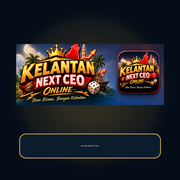
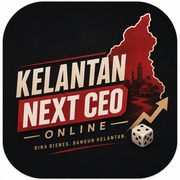
Add files via upload

diff --git a/index.html b/index.html
@@ -10,6 +10,7 @@
 <title>Kelantan Next CEO Online</title>
 <link rel="manifest" href="manifest.json">
 <link rel="apple-touch-icon" href="apple-touch-icon.png">
+<link rel="icon" type="image/png" sizes="192x192" href="icon-192.png">
 <style>
 :root{
  --bg:#07111b;--panel:#0d1924;--panel2:#112334;--line:#223849;--text:#f5f7f9;--muted:#91a2ae;
@@ -28,32 +29,125 @@ body{
 button,input,select{font:inherit}button{cursor:pointer}img{max-width:100%}
 
 #splash{
- position:fixed;inset:0;z-index:5000;background:#03080d;overflow:hidden;
- display:block;color:white
+ position:fixed;inset:0;z-index:5000;overflow:hidden;
+ background:
+   radial-gradient(circle at 50% 46%,rgba(23,109,153,.13),transparent 24%),
+   radial-gradient(circle at 50% 46%,rgba(227,52,45,.12),transparent 32%),
+   linear-gradient(180deg,#03070b 0%,#07101a 55%,#020507 100%);
+ color:white;display:flex;align-items:center;justify-content:center;
 }
-.splashStage{position:absolute;inset:0;opacity:0;transition:opacity .7s ease,transform 2.4s cubic-bezier(.2,.8,.2,1);transform:scale(1.035)}
-.splashStage.active{opacity:1;transform:scale(1)}
-.splashStage img{position:absolute;inset:0;width:100%;height:100%;object-fit:cover;object-position:center;display:block}
-.splashShade{position:absolute;inset:0;background:linear-gradient(180deg,rgba(2,7,12,.10),rgba(2,7,12,.02) 48%,rgba(2,7,12,.68));z-index:2;pointer-events:none}
-.splashFx{position:absolute;inset:0;z-index:3;pointer-events:none}
-.splashFx:before{
- content:"";position:absolute;left:50%;top:44%;width:58vw;height:58vw;max-width:520px;max-height:520px;
+.splashScene{position:absolute;inset:0;overflow:hidden}
+.splashGrid{
+ position:absolute;inset:-20%;
+ background:
+  linear-gradient(rgba(89,180,224,.055) 1px,transparent 1px),
+  linear-gradient(90deg,rgba(89,180,224,.055) 1px,transparent 1px);
+ background-size:34px 34px;
+ transform:perspective(700px) rotateX(63deg) translateY(40%);
+ transform-origin:center bottom;
+ opacity:.32;
+ animation:gridMove 5s linear infinite
+}
+@keyframes gridMove{to{background-position:0 34px,34px 0}}
+.splashOrb{
+ position:absolute;left:50%;top:47%;width:min(76vw,560px);aspect-ratio:1;
  transform:translate(-50%,-50%);border-radius:50%;
- background:radial-gradient(circle,rgba(33,183,255,.17),rgba(255,59,48,.07) 38%,transparent 70%);
- filter:blur(7px);animation:splashPulse 1.5s ease-in-out infinite alternate
+ border:1px solid rgba(70,190,255,.16);
+ box-shadow:
+  0 0 60px rgba(58,176,235,.10),
+  inset 0 0 80px rgba(58,176,235,.06);
+ animation:orbPulse 2.5s ease-in-out infinite alternate
 }
-@keyframes splashPulse{to{transform:translate(-50%,-50%) scale(1.12);opacity:.45}}
+.splashOrb:before,.splashOrb:after{
+ content:"";position:absolute;border-radius:50%;inset:11%;
+ border:1px solid rgba(255,75,58,.12)
+}
+.splashOrb:after{inset:25%;border-color:rgba(255,194,77,.12)}
+@keyframes orbPulse{to{transform:translate(-50%,-50%) scale(1.045);opacity:.74}}
+
+.kelantanHero{
+ position:absolute;left:50%;top:49%;
+ width:min(47vw,330px);height:min(67vw,470px);
+ transform:translate(-50%,-50%);
+ animation:heroFloat 4.4s ease-in-out infinite;
+ filter:drop-shadow(0 0 20px rgba(230,54,47,.50)) drop-shadow(0 0 42px rgba(241,178,60,.13))
+}
+.kelantanShape{
+ position:absolute;inset:0;
+ background:
+  radial-gradient(circle at 51% 24%,#ffcf62 0 2px,transparent 3px),
+  radial-gradient(circle at 45% 34%,#ffcf62 0 2px,transparent 3px),
+  radial-gradient(circle at 58% 42%,#ffcf62 0 2px,transparent 3px),
+  radial-gradient(circle at 48% 54%,#ffcf62 0 2px,transparent 3px),
+  radial-gradient(circle at 42% 67%,#ffcf62 0 2px,transparent 3px),
+  linear-gradient(155deg,#ef4a3e 0%,#c32827 46%,#7e1116 100%);
+ clip-path:polygon(
+   40% 0%,58% 5%,70% 13%,79% 24%,87% 37%,85% 49%,
+   79% 61%,72% 71%,67% 82%,59% 94%,50% 100%,42% 94%,
+   34% 86%,28% 78%,22% 67%,16% 56%,12% 43%,14% 31%,
+   20% 19%,28% 9%
+ );
+ border-radius:18px;
+ box-shadow:inset 0 0 0 2px rgba(255,208,100,.45),inset -18px -28px 45px rgba(68,0,9,.42)
+}
+.kelantanShape:before{
+ content:"";position:absolute;inset:0;
+ background:
+  linear-gradient(118deg,transparent 0 46%,rgba(255,222,130,.40) 47%,transparent 48%),
+  linear-gradient(68deg,transparent 0 52%,rgba(255,222,130,.28) 53%,transparent 54%),
+  linear-gradient(160deg,transparent 0 62%,rgba(255,222,130,.22) 63%,transparent 64%);
+ opacity:.42;mix-blend-mode:screen
+}
+.kelantanShape:after{
+ content:"";position:absolute;left:46%;top:18%;width:8%;height:64%;
+ background:linear-gradient(180deg,rgba(53,181,229,.95),rgba(73,132,191,.25));
+ border-radius:999px;transform:rotate(7deg);
+ box-shadow:0 0 12px rgba(66,187,236,.40)
+}
+@keyframes heroFloat{0%,100%{transform:translate(-50%,-50%) translateY(0) rotate(-1deg)}50%{transform:translate(-50%,-50%) translateY(-9px) rotate(1deg)}}
+
+.scanline{
+ position:absolute;left:50%;top:18%;width:min(54vw,390px);height:3px;
+ transform:translateX(-50%);
+ background:linear-gradient(90deg,transparent,rgba(255,220,121,.9),transparent);
+ filter:blur(.3px);opacity:.0;
+ animation:scan 2.8s .7s ease-in-out infinite
+}
+@keyframes scan{
+ 0%{top:20%;opacity:0}12%{opacity:.7}50%{opacity:.45}88%{opacity:.7}100%{top:78%;opacity:0}
+}
+
+.spark{position:absolute;width:3px;height:3px;border-radius:50%;background:#ffcf62;box-shadow:0 0 8px #ffcf62;opacity:.0;animation:spark 3.6s infinite}
+.spark.s1{left:34%;top:34%;animation-delay:.4s}.spark.s2{left:66%;top:40%;animation-delay:1.1s}.spark.s3{left:41%;top:65%;animation-delay:1.8s}.spark.s4{left:59%;top:70%;animation-delay:2.5s}
+@keyframes spark{0%,100%{opacity:0;transform:translateY(7px) scale(.7)}35%,60%{opacity:1;transform:translateY(-7px) scale(1)}}
+
+.splashContent{
+ position:absolute;left:0;right:0;top:calc(54px + env(safe-area-inset-top,0px));
+ z-index:10;text-align:center;padding:0 24px;
+ animation:contentIn 1s .15s ease both
+}
+.splashBrand{display:block;width:min(430px,86vw);margin:auto;filter:drop-shadow(0 10px 20px rgba(0,0,0,.45))}
+@keyframes contentIn{from{opacity:0;transform:translateY(-12px) scale(.96)}to{opacity:1;transform:none}}
+
 .splashBottom{
  position:absolute;left:0;right:0;bottom:calc(28px + env(safe-area-inset-bottom,0px));
- z-index:4;text-align:center;padding:0 22px
+ z-index:12;text-align:center;padding:0 24px
 }
-.splashTag{font-size:12px;font-weight:900;letter-spacing:.35px;color:#f7d779;text-shadow:0 2px 12px #000}
-.splashStatus{margin-top:8px;font-size:9px;letter-spacing:1.7px;color:#c4d0d8;font-weight:900}
-.splashProgress{width:min(330px,78vw);height:7px;margin:13px auto 0;border-radius:999px;background:rgba(255,255,255,.12);overflow:hidden;border:1px solid rgba(255,255,255,.14)}
-.splashProgress span{display:block;height:100%;width:0;background:linear-gradient(90deg,#e4372f,#f0b94a);box-shadow:0 0 12px rgba(240,185,74,.42);transition:width .6s ease}
-.splashDots{display:flex;justify-content:center;gap:6px;margin-top:12px}
-.splashDots i{display:block;width:6px;height:6px;border-radius:50%;background:rgba(255,255,255,.25);transition:.25s}
-.splashDots i.active{background:#f0b94a;transform:scale(1.3)}
+.splashTag{font-size:13px;font-weight:1000;letter-spacing:.25px;color:#f7d779;text-shadow:0 2px 12px #000}
+.splashStatus{margin-top:7px;font-size:9px;letter-spacing:1.6px;color:#aebec9;font-weight:900}
+.splashProgress{width:min(330px,78vw);height:7px;margin:13px auto 0;border-radius:999px;background:rgba(255,255,255,.10);overflow:hidden;border:1px solid rgba(255,255,255,.12)}
+.splashProgress span{display:block;height:100%;width:0;background:linear-gradient(90deg,#d72e31,#f0b94a);box-shadow:0 0 13px rgba(240,185,74,.42);animation:cinematicLoad 3.8s cubic-bezier(.2,.8,.2,1) forwards}
+@keyframes cinematicLoad{to{width:100%}}
+.splashVersion{font-size:7px;letter-spacing:1.4px;color:#566875;margin-top:9px;font-weight:900}
+@media(max-width:680px){
+ .kelantanHero{width:min(58vw,295px);height:min(82vw,420px);top:50%}
+ .splashContent{top:calc(36px + env(safe-area-inset-top,0px))}
+ .splashBrand{width:min(360px,82vw)}
+}
+@media(prefers-reduced-motion:reduce){
+ .splashGrid,.splashOrb,.kelantanHero,.scanline,.spark{animation:none!important}
+ .splashProgress span{animation-duration:.1s}
+}
 
 
 .app{max-width:1560px;margin:auto;padding:calc(10px + var(--safe-top)) 12px calc(92px + var(--safe-bottom))}
@@ -154,23 +248,23 @@ button,input,select{font:inherit}button{cursor:pointer}img{max-width:100%}
 </head>
 <body>
 <div id="splash">
-  <div class="splashStage active" data-stage="0"><img src="splash-frame-1.jpg" alt=""></div>
-  <div class="splashStage" data-stage="1"><img src="splash-frame-2.jpg" alt=""></div>
-  <div class="splashStage" data-stage="2"><img src="splash-frame-3.jpg" alt=""></div>
-  <div class="splashStage" data-stage="3"><img src="splash-frame-4.jpg" alt=""></div>
-  <div class="splashShade"></div>
-  <div class="splashFx"></div>
+  <div class="splashScene">
+    <div class="splashGrid"></div>
+    <div class="splashOrb"></div>
+    <div class="kelantanHero"><div class="kelantanShape"></div></div>
+    <div class="scanline"></div>
+    <i class="spark s1"></i><i class="spark s2"></i><i class="spark s3"></i><i class="spark s4"></i>
+  </div>
+  <div class="splashContent">
+    <img class="splashBrand" src="brand-logo.png" alt="Kelantan Next CEO Online">
+  </div>
   <div class="splashBottom">
     <div class="splashTag">Bina Bisnes. Bangun Kelantan.</div>
-    <div class="splashStatus" id="splashStatus">MEMULAKAN MARKET</div>
-    <div class="splashProgress"><span id="splashBar"></span></div>
-    <div class="splashDots">
-      <i class="active"></i><i></i><i></i><i></i>
-    </div>
+    <div class="splashStatus">PREPARING THE MARKET</div>
+    <div class="splashProgress"><span></span></div>
+    <div class="splashVersion">ONLINE MULTIPLAYER • FOUNDER EDITION</div>
   </div>
 </div>
-</div>
-
 <div class="app">
   <div class="topbar">
     <div class="brand">
@@ -462,41 +556,14 @@ tabs.forEach(btn=>btn.addEventListener("click",()=>{
   document.getElementById(btn.dataset.tab)?.classList.add("mobileShow");
 }));
 
-// --- Commercial 4-stage splash sequence ---
-const splashStages=[...document.querySelectorAll(".splashStage")];
-const splashDots=[...document.querySelectorAll(".splashDots i")];
-const splashBar=document.getElementById("splashBar");
-const splashStatus=document.getElementById("splashStatus");
-const splashCopy=[
-  "MEMULAKAN MARKET",
-  "MEMBINA PETA KELANTAN",
-  "MENYEDIAKAN EMPAYAR",
-  "READY TO BUILD EMPIRE"
-];
-let splashIndex=0;
+// --- Continuous cinematic splash ---
 const splashRoot=document.getElementById("splash");
-
-function showSplashStage(i){
-  splashStages.forEach((el,j)=>el.classList.toggle("active",j===i));
-  splashDots.forEach((el,j)=>el.classList.toggle("active",j===i));
-  splashStatus.textContent=splashCopy[i];
-  splashBar.style.width=((i+1)/splashStages.length*100)+"%";
-}
-showSplashStage(0);
-
-const splashTimer=setInterval(()=>{
-  splashIndex++;
-  if(splashIndex<splashStages.length){
-    showSplashStage(splashIndex);
-  }else{
-    clearInterval(splashTimer);
-    setTimeout(()=>{
-      splashRoot.style.transition="opacity .5s ease";
-      splashRoot.style.opacity="0";
-      setTimeout(()=>splashRoot.remove(),520);
-    },650);
-  }
-},850);
+setTimeout(()=>{
+  splashRoot.style.transition="opacity .65s ease, transform .65s ease";
+  splashRoot.style.opacity="0";
+  splashRoot.style.transform="scale(1.015)";
+  setTimeout(()=>splashRoot.remove(),680);
+},4200);
 
 // --- Service worker ---
 if("serviceWorker" in navigator){

diff --git a/sw.js b/sw.js
@@ -1,5 +1,5 @@
-const CACHE="knc-online-v03-splash";
-const ASSETS=["./","./index.html","./manifest.json","./board.png","./brand-logo.png","./splash-logo.png","./icon-192.png","./icon-512.png","./apple-touch-icon.png","./firebase-config.js","./splash-frame-1.jpg","./splash-frame-2.jpg","./splash-frame-3.jpg","./splash-frame-4.jpg","./splash-static.jpg"];
+const CACHE="knc-online-v032-newicon";
+const ASSETS=["./","./index.html","./manifest.json","./board.png","./brand-logo.png","./splash-logo.png","./icon-192.png","./icon-512.png","./icon-maskable-192.png","./icon-maskable-512.png","./apple-touch-icon.png","./firebase-config.js","./splash-static.jpg"];
 self.addEventListener("install",e=>e.waitUntil(caches.open(CACHE).then(c=>c.addAll(ASSETS))));
 self.addEventListener("activate",e=>e.waitUntil(caches.keys().then(keys=>Promise.all(keys.filter(k=>k!==CACHE).map(k=>caches.delete(k))))));
 self.addEventListener("fetch",e=>{
